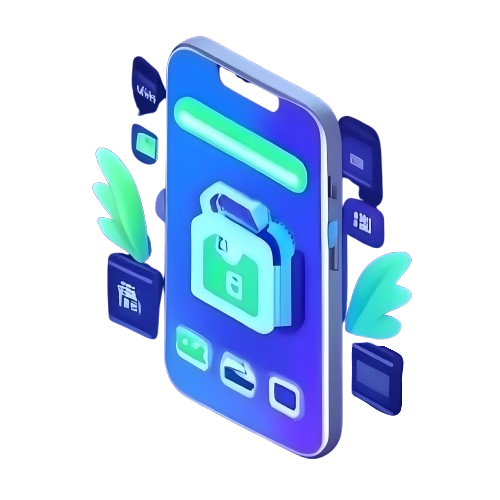
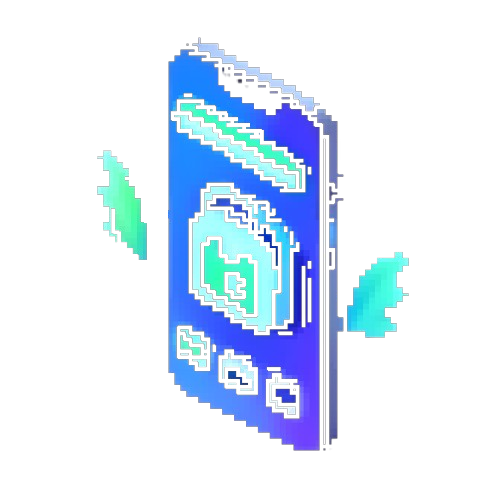
Added android option

Changed region(s): [[0.18, 0.06, 0.84, 0.93]]

diff --git a/src/app/app.component.html b/src/app/app.component.html
@@ -2,9 +2,8 @@
   <div class="top">
     <div class="logo">Plant Species Identification</div>
     <div class="menus">
-      <div class="menu">Home</div>
-      <div class="menu">Docs</div>
-      <div class="menu">Journey</div>
+      <div class="menu"><a href="" class="menu-links">Home</a></div>
+      <div class="menu"><a href="" class="menu-links">Journey</a></div>
     </div>
   </div>
 
@@ -44,12 +43,12 @@
             </div>
             <div class="Middle-Feature F2">
               <div class="Features-Title">
-                Real-Time Detection of Plant Features
+                Species Recognition
               </div>
               <hr>
               <div class="Features-Content">
                 <div class="Features-Content-Description">
-                  Using AI models to identify and analyze features like leaves, fruits, flowers, diseases, or other characteristics in plants.
+                  AI-powered identification and classification of various plant types and species based on visual features like flower, fruits and leaf.
                 </div>
                 <div class="Features-Content-Image">
                   <!-- TODO:: PASTE GOOGLE ICON IMAGE -->
@@ -58,12 +57,12 @@
             </div>
             <div class="Middle-Feature F3">
               <div class="Features-Title">
-                Real-Time Detection of Plant Features
+                Multi-Part Plant Feature Analysis
               </div>
               <hr>
               <div class="Features-Content">
                 <div class="Features-Content-Description">
-                  Using AI models to identify and analyze features like leaves, fruits, flowers, diseases, or other characteristics in plants.
+                  Utilizing advanced AI models to identify individual plant parts, such as leaves, flowers, and fruits, and seamlessly mapping them to specific plant species for research and agricultural insights.
                 </div>
                 <div class="Features-Content-Image">
                   <!-- TODO:: PASTE GOOGLE ICON IMAGE -->
@@ -72,12 +71,12 @@
             </div>
             <div class="Middle-Feature F4">
               <div class="Features-Title">
-                Real-Time Detection of Plant Features
+                Detailed Species Description
               </div>
               <hr>
               <div class="Features-Content">
                 <div class="Features-Content-Description">
-                  Using AI models to identify and analyze features like leaves, fruits, flowers, diseases, or other characteristics in plants.
+                  An AI-powered system that detects plant species and  provides detailed descriptions of the identified species, enriching users with botanical knowledge.
                 </div>
                 <div class="Features-Content-Image">
                   <!-- TODO:: PASTE GOOGLE ICON IMAGE -->
@@ -105,7 +104,13 @@
             Identifiy and Detect Plant In Your Surroundings
           </div>
         </div>
+        
         <div class="Bottom-Content">
+          <div class="mobile-art">
+            <div class="sub-mobile-art">
+              <img class="android-image" src="Android.png" alt="">
+            </div>
+          </div>
           <div class="Content-Download-Option">
             <div class="Download-Type">
               <div class="Type-Name">
@@ -118,51 +123,9 @@
                 Minimum Requirements (Version 2.22.13.77) Android OS 4.0.3 or above
               </div>
               <div class="Download-Image-with-link">
-
+                <img src="https://tuxtop.com/wp-content/uploads/2023/12/image_2024-02-13_20-03-12.png" alt="" class="image">
               </div>
             </div>
-            <div class="Download-Type">
-              <div class="Type-Name">
-                Mobile/Tablet
-              </div>
-              <div class="Type-Os">
-                IOS
-              </div>
-              <div class="Download-Description">
-                Comming-Soon
-              <div class="Download-Image-with-link">
-                
-              </div>
-              <div class="Download-Type">
-                <div class="Type-Name">
-                  Descktop
-                </div>
-                <div class="Type-Os">
-                  MAC
-                </div>
-                <div class="Download-Description">
-                  Comming-Soon
-                <div class="Download-Image-with-link">
-                  
-                </div>
-              </div>
-              <div class="Download-Type">
-                <div class="Type-Name">
-                  Descktop
-                </div>
-                <div class="Type-Os">
-                  Windows
-                </div>
-                <div class="Download-Description">
-                  Comming-Soon
-                <div class="Download-Image-with-link">
-                  
-                </div>
-              </div>
-            </div>
-          </div>
-          <div class="Content-Image">
-            <!-- TODO: PATE MOBILE IMAGE HERE as Half Cutted -->
           </div>
         </div>
       </div>

diff --git a/src/app/app.component.css b/src/app/app.component.css
@@ -6,8 +6,14 @@
     display: flex;
     flex-direction: column;
     /* justify-content: center; */
-    font-family: Arial, sans-serif;
+    font-family: "Roboto", sans-serif;
     /* overflow: hidden; */
+  }
+
+  .menu-links{
+    text-decoration: none;
+    color: rgb(0, 0, 0);
+    font-size: 20px;
   }
   .top{
     position: sticky;
@@ -17,11 +23,14 @@
     display: flex;
     flex-direction: row;
     justify-content: space-between;
-    padding: 20px;
+    padding: 20px 40px 20px 40px;
     width: 100%;
     box-sizing: border-box;
+    z-index: 100;
   }
   .logo{
+    margin-left: 40px;
+    margin-top: 40px;
     font-size: 20px;
 
   }
@@ -58,20 +67,21 @@
 
 .Main-Content-Top{
   width: 100%;
-  justify-self: left;
-  align-self: flex-start;
   text-align: justify;
   font-size: 40px;
   display: flex;
   flex-direction: row;
-  justify-content: start;
+  justify-content: center;
   padding:  0vw 0vw;
 }
 .Title-Description{
   font-size: 20px;
+  margin-bottom: 40px;
 }
 .Title{
+  margin: 0px 100px;
   padding: 0vw 5vw;
+  margin-top: 0px;
 }
 
 .Main-Content-Middle{
@@ -85,6 +95,7 @@
   flex-direction: column;
   justify-content: space-around;
   padding: 20px;
+  
   margin-right: 100px;
 }
 .Features-Title{
@@ -128,4 +139,159 @@ img{
 
 .Main-Content-Bottom{
   background-color: white;
+}
+
+
+.Content-Download-Option{
+  display: flex;
+  flex-direction: row;
+  /* margin: 50px; */
+  width: 100%;
+  display: flex;
+  flex-direction: column;
+  justify-content: center;
+  align-items: center;
+  /* height: ; */
+}
+.Main-Content-Bottom {
+  /* width: 100%; */
+  padding: 40px 20px;
+  background-color: #fff;
+  border-radius: 8px;
+  box-shadow: 0 2px 10px rgba(0, 0, 0, 0.1);
+  /* margin: 20px 0; */
+  padding: 0px 100px;
+}
+
+/* Bottom Title */
+.Bottom-Title {
+  padding-top: 10px;
+  padding-left: 100px;
+  text-align: left;
+  margin-bottom: 30px;
+}
+
+.Bottom-Title-Head {
+  font-size: 28px;
+  font-weight: bold;
+  color: #333;
+  margin-bottom: 8px;
+}
+
+.Bottom-Title-Descritption {
+  font-size: 16px;
+  color: #777;
+}
+
+/* Bottom Content */
+.Bottom-Content {
+  display: flex;
+  flex-direction: row;
+  /* height: 200px; */
+  /* overflow: hidden;/ */
+  /* justify-content: space-between; */
+  /* flex-wrap: wrap;
+  gap: 20px; */
+}
+
+/* Individual Download Option */
+.Download-Type {
+  justify-self: flex-end;
+  width: 300px;
+  background-color: #f7f7f7;
+  border-radius: 8px;
+  padding: 20px;
+  height: 300px;
+  border: 1px solid rgba(0, 0, 0, 0.034);
+  box-shadow: 0 2px 5px rgba(0, 0, 0, 0.1);
+  transition: transform 0.3s ease, box-shadow 0.3s ease;
+  
+}
+
+.Download-Type:hover {
+  transform: translateY(-5px);
+  box-shadow: 0 10px 20px rgba(0, 0, 0, 0.2);
+}
+
+/* Type Name */
+.Type-Name {
+  font-size: 18px;
+  font-weight: bold;
+  color: #333;
+  margin-bottom: 10px;
+}
+
+/* OS Type */
+.Type-Os {
+  font-size: 14px;
+  color: #555;
+  margin-bottom: 15px;
+}
+
+/* Description */
+.Download-Description {
+  font-size: 14px;
+  color: #050505;
+  margin-bottom: 15px;
+  /* text-align: justify; */
+}
+
+/* Coming Soon Text */
+.Download-Description span {
+  font-weight: bold;
+  color: #ff6600;
+}
+
+/* Image with link (adjust as necessary for images and links) */
+.Download-Image-with-link {
+  margin-top: 10px;
+  display: flex;
+  justify-content: center;
+}
+
+/* Responsive Design */
+@media screen and (max-width: 768px) {
+  .Bottom-Content {
+    flex-direction: column;
+    align-items: center;
+  }
+
+  .Download-Type {
+    width: 100%;
+  }
+}
+.image{
+  margin-top: 70px;
+  height: 60px;
+}
+
+
+.mobile-art{
+  margin-left: 200px;
+  margin-right: 100px;
+  margin-top: 100px;
+  height: 300px;
+  width: 600px;
+  border-top-left-radius: 20px;
+  border-top-right-radius: 20px;
+  
+  border: 2px solid black;
+  border-bottom: 0px;
+  box-sizing: border-box;
+  padding: 20px;
+  background-color: rgba(3, 255, 3, 0.274);
+  /* background-color: black; */
+}
+.sub-mobile-art{
+  height: 107%;
+  width: 600px;
+  border-top-left-radius: 20px;
+  border-top-right-radius: 20px;
+  
+  border: 2px solid black;
+  border-bottom: 0px;
+  background-color: rgba(0, 128, 0, 0.315);
+}
+.android-image{
+  height: 270px;
 }

diff --git a/src/index.html b/src/index.html
@@ -6,6 +6,9 @@
   <base href="/">
   <meta name="viewport" content="width=device-width, initial-scale=1">
   <link rel="icon" type="image/x-icon" href="favicon.png">
+  <link rel="preconnect" href="https://fonts.googleapis.com">
+<link rel="preconnect" href="https://fonts.gstatic.com" crossorigin>
+<link href="https://fonts.googleapis.com/css2?family=Roboto:ital,wght@0,100;0,300;0,400;0,500;0,700;0,900;1,100;1,300;1,400;1,500;1,700;1,900&display=swap" rel="stylesheet">
   <link rel="stylesheet" href="https://fonts.googleapis.com/css2?family=Material+Symbols+Outlined:opsz,wght,FILL,GRAD@20..48,100..700,0..1,-50..200&icon_names=videocam" />
   <style>
     body{
